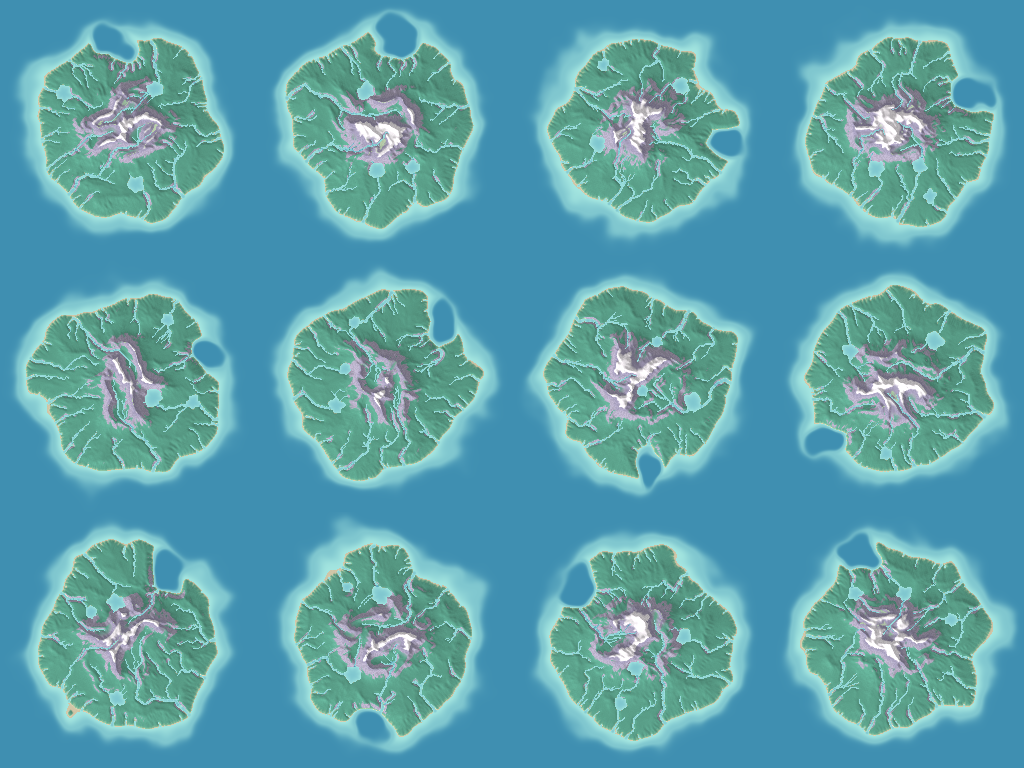
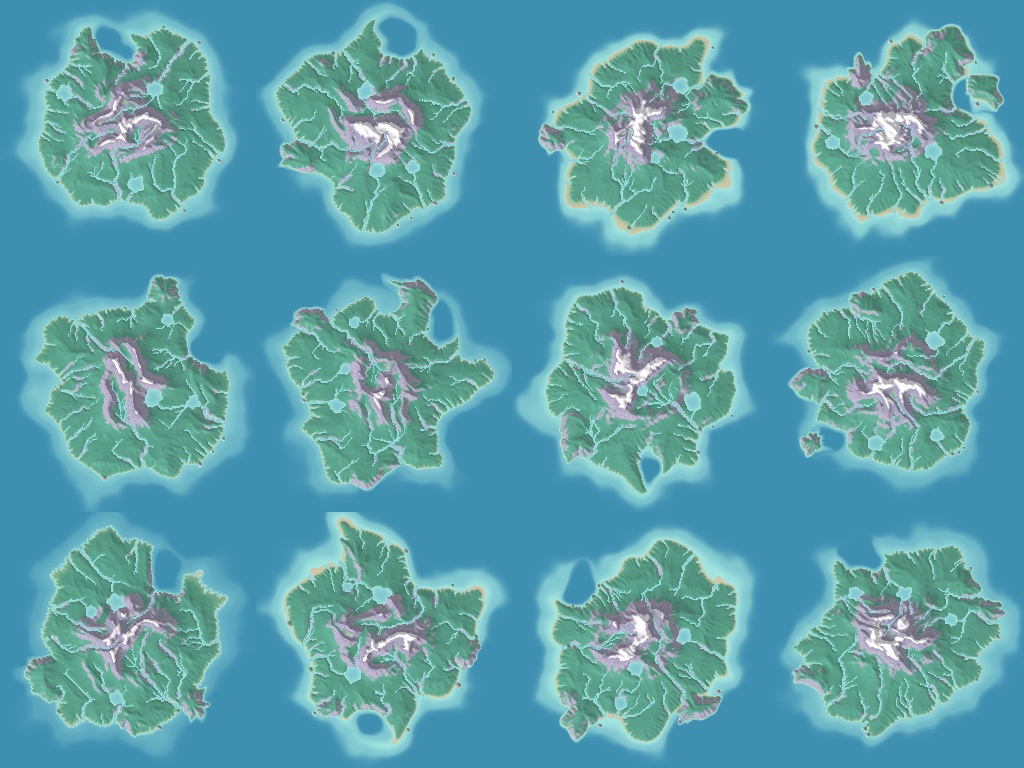
Worker + chunk cache, quantile sea level, coast smoothing, landmarks, capsule rivers, full-world low-LOD streaming

Changed region(s): [[0.0, 0.0, 1.0, 1.0], [0.0, 0.0, 0.2188, 0.3125]]

diff --git a/src/main.js b/src/main.js
@@ -1,9 +1,10 @@
 import * as THREE from 'three';
 import {OrbitControls} from 'three/addons/controls/OrbitControls.js';
-import {createIsland,SEA_LEVEL} from '../packages/island-gen/src/island.js';
+import {IslandClient} from './island-client.js';
+const SEA_LEVEL=0;
 import {PRESETS,PRESET_IDS} from '../packages/island-gen/src/presets.js';
-import {buildTerrainChunk,buildWaterChunk} from '../packages/island-gen/src/chunks.js';
-import {drawMinimap,drawMarker} from './minimap.js';
+import {drawMarker} from './minimap.js';
+const client=new IslandClient();
 
 const params=new URLSearchParams(location.search);
 if(params.has('shot')) document.body.classList.add('shot');
@@ -18,13 +19,13 @@ controls.enableDamping=true;controls.dampingFactor=.08;controls.maxPolarAngle=Ma
 
 const waterMat=new THREE.ShaderMaterial({
   transparent:true,depthWrite:false,
-  uniforms:{uTime:{value:0},uShallow:{value:new THREE.Color()},uDeep:{value:new THREE.Color()},uFoam:{value:new THREE.Color()},uFog:{value:new THREE.Color()},uFogNear:{value:1100},uFogFar:{value:5200}},
+  uniforms:{uTime:{value:0},uShallow:{value:new THREE.Color()},uDeep:{value:new THREE.Color()},uFoam:{value:new THREE.Color()},uFog:{value:new THREE.Color()},uFogNear:{value:900},uFogFar:{value:3600}},
   vertexShader:`attribute float depth;varying float vD;varying vec3 vW;varying float vDist;
     void main(){vD=depth;vec4 w=modelMatrix*vec4(position,1.);vW=w.xyz;vec4 mv=viewMatrix*w;vDist=length(mv.xyz);gl_Position=projectionMatrix*mv;}`,
   fragmentShader:`uniform float uTime,uFogNear,uFogFar;uniform vec3 uShallow,uDeep,uFoam,uFog;varying float vD;varying vec3 vW;varying float vDist;
     void main(){
       float d=vD; if(d<-0.02) discard;
-      float t=1.-exp(-max(d,0.)*.11);
+      float k=mix(.11,.5,step(.8,vW.y));float t=1.-exp(-max(d,0.)*k);
       vec3 col=mix(uShallow,uDeep,t);
       float w1=sin(uTime*.9+vW.x*.12+vW.z*.07),w2=sin(uTime*1.3-vW.z*.15+vW.x*.05);
       float band=.55+.22*w1+.14*w2;
@@ -53,7 +54,7 @@ function buildOcean(half){
   ocean.geometry.dispose();const g=new THREE.BufferGeometry();g.setAttribute('position',new THREE.Float32BufferAttribute(pos,3));g.setIndex(idx);ocean.geometry=g;
 }
 let island=null,chunkMap=new Map(),group=new THREE.Group();scene.add(group);
-let streamRadius=1500;
+let streamRadius=4200;
 
 function lodFor(d){return d<260?33:d<620?17:d<1300?9:5;}
 function chunkKey(cx,cz){return cx+','+cz;}
@@ -81,29 +82,40 @@ function wanted(){
   list.sort((a,b)=>a.d-b.d);
   return list;
 }
+const inflight=new Set();let loadGen=0;
 function updateChunks(budget=6){
   const want=wanted(),keep=new Set();
-  let built=0,pending=0;
+  let pending=0;
   for(const w of want){
     const k=chunkKey(w.cx,w.cz);keep.add(k);
     const cur=chunkMap.get(k);
     if(cur&&cur.res===w.res) continue;
-    if(built>=budget){pending++;continue;}
-    if(cur) disposeChunk(cur);
-    const t=buildTerrainChunk(island,w.cx,w.cz,w.res);
-    const tm=makeMesh(t,false);group.add(tm);
-    const wd=buildWaterChunk(island,w.cx,w.cz,w.res>=33?65:w.res>=17?49:w.res>=9?33:17);
-    let wm=null;if(wd){wm=makeMesh(wd,true);group.add(wm);}
-    chunkMap.set(k,{terrain:tm,water:wm,res:w.res});built++;
+    const fk=k+'|'+w.res;
+    if(inflight.has(fk)) continue;
+    if(inflight.size>=budget){pending++;continue;}
+    inflight.add(fk);const myGen=loadGen;
+    client.chunk(w.cx,w.cz,w.res,w.res>=33?65:w.res>=17?49:w.res>=9?33:17).then(r=>{
+      inflight.delete(fk);
+      if(!r||myGen!==loadGen) return;
+      const old=chunkMap.get(k);if(old) disposeChunk(old);
+      const tm=makeMesh(r.terrain,false);group.add(tm);
+      let wm=null;if(r.water){wm=makeMesh(r.water,true);group.add(wm);}
+      chunkMap.set(k,{terrain:tm,water:wm,res:w.res});
+    }).catch(err=>{inflight.delete(fk);console.error(err);});
   }
   for(const [k,c] of chunkMap) if(!keep.has(k)){disposeChunk(c);chunkMap.delete(k);}
-  return pending;
+  return pending+inflight.size;
 }
-function flushChunks(){let p;do{p=updateChunks(400);}while(p>0);}
-
+async function flushChunks(){
+  for(let i=0;i<4000;i++){
+    const left=updateChunks(24);
+    if(left===0) return;
+    await new Promise(r=>setTimeout(r,16));
+  }
+}
 function applyPalette(p){
   const c=new THREE.Color(p.sky);scene.background=c;
-  scene.fog=new THREE.Fog(new THREE.Color(p.fog),1100,5200);scene.background=new THREE.Color(p.fog);oceanMat.color.set(p.deep).lerp(new THREE.Color('#8fb9b4'),.22).multiplyScalar(.82);floorMat.color.copy(oceanMat.color).multiplyScalar(.6);
+  scene.fog=new THREE.Fog(new THREE.Color(p.fog),900,3600);scene.background=new THREE.Color(p.fog);oceanMat.color.set(p.deep).lerp(new THREE.Color('#8fb9b4'),.22).multiplyScalar(.82);floorMat.color.copy(oceanMat.color);
   waterMat.uniforms.uShallow.value.set(p.shallow);waterMat.uniforms.uDeep.value.set(p.deep);waterMat.uniforms.uFoam.value.set(p.foam);waterMat.uniforms.uFog.value.set(p.fog);
 }
 function clampCamera(){
@@ -147,22 +159,22 @@ addEventListener('resize',resize);resize();
 
 async function load(presetId,seed,view='oblique',viewOpts){
   $('busy').style.display='grid';
-  await new Promise(r=>setTimeout(r,20));
-  const t0=performance.now();
+  loadGen++;inflight.clear();
   for(const c of chunkMap.values())disposeChunk(c);chunkMap.clear();
-  island=createIsland(seed,presetId);
+  const t0=performance.now();
+  island=await client.load(seed,presetId);
   const tGen=performance.now()-t0;
   applyPalette(island.preset.palette);buildOcean(island.half);
   setView(view,viewOpts);
-  const t1=performance.now();flushChunks();
+  const t1=performance.now();await flushChunks();
   const tChunks=performance.now()-t1;
-  drawMinimap($('mapc'),island);updateMarker();
+  client.minimap(208,208).then(px=>{const c=$('mapc').getContext('2d'),img=c.createImageData(208,208);img.data.set(px);c.putImageData(img,0,0);updateMarker();});
   const s=island.stats;
   $('blurb').textContent=island.preset.blurb;
-  $('info').textContent=`land ${(s.landRatio*100).toFixed(0)}% | peak ${s.maxH.toFixed(0)}m | ${s.rivers} rivers ${s.lakes} lakes | gen ${tGen.toFixed(0)}ms, mesh ${tChunks.toFixed(0)}ms`;
+  $('info').textContent=`land ${(s.landRatio*100).toFixed(0)}% | peak ${s.maxH.toFixed(0)}m | ${s.rivers} river mouths ${s.lakes} lakes | gen ${tGen.toFixed(0)}ms (worker), first mesh ${tChunks.toFixed(0)}ms`;
   $('busy').style.display='none';
   window.__cozy.ready=true;
-  return {stats:s,tGen,tChunks,checksum:island.checksum()};
+  return {stats:s,tGen,tChunks,checksum:island.checksum};
 }
 function updateMarker(){if(island)drawMarker($('mapo'),island,controls.target,camera.position);}
 function randomSeed(){const w=['clover','plum','mint','dune','fern','tide','honey','moss','pearl','lilac','ember','drift','sorbet','wren','cove'];return w[Math.floor(Math.random()*w.length)]+'-'+Math.floor(Math.random()*900+100);}
@@ -182,7 +194,7 @@ $('mapo').onclick=e=>{
 };
 
 window.__cozy={ready:false,load,setView,flushChunks,
-  setCamera(p,t){camera.position.set(...p);controls.target.set(...t);camera.lookAt(...t);controls.update();flushChunks();},
+  async setCamera(p,t){camera.position.set(...p);controls.target.set(...t);camera.lookAt(...t);controls.update();await flushChunks();},
   setSize(w,h){renderer.setSize(w,h,false);camera.aspect=w/h;camera.updateProjectionMatrix();},
   render(time=0){waterMat.uniforms.uTime.value=time;controls.update();clampCamera();renderer.render(scene,camera);},
   info(){return {chunks:chunkMap.size,calls:renderer.info.render.calls,tris:renderer.info.render.triangles};},
@@ -196,7 +208,7 @@ function loop(now){
   if(autoOrbit){const o=camera.position.clone().sub(controls.target);o.applyAxisAngle(new THREE.Vector3(0,1,0),dt*.12);camera.position.copy(controls.target).add(o);}
   waterMat.uniforms.uTime.value=now/1000;
   controls.update();clampCamera();
-  if(++frames%12===0) updateChunks(3);
+  if(++frames%4===0) updateChunks(8);
   if(frames%20===0) updateMarker();
   renderer.render(scene,camera);
 }

diff --git a/packages/island-gen/src/island.js b/packages/island-gen/src/island.js
@@ -48,6 +48,10 @@ export function createIsland(seedValue='petalwood',presetId='meadowCove',opts={}
   const bays=(preset.bays||[]).map(rot);
   const plateaus=(preset.plateaus||[]).map(o=>rot(o));
   const knolls=[];
+  if(preset.hero){
+    const hr=rng(key+':hero'),a=hr()*Math.PI*2;
+    knolls.push({x:lobes[0].x+Math.cos(a)*lobes[0].r*preset.hero.dist,z:lobes[0].z+Math.sin(a)*lobes[0].r*preset.hero.dist,r:preset.hero.r,h:preset.hero.h});
+  }
   if(preset.knolls){
     const kr=rng(key+':knolls'),K=preset.knolls;let t=0;
     while(knolls.length<K.count&&t++<300){
@@ -59,7 +63,11 @@ export function createIsland(seedValue='petalwood',presetId='meadowCove',opts={}
   const detailFreq=.03;
   const maskAt=(wx,wz)=>{
     let m=-1;
-    for(const l of lobes) m=Math.max(m,1-Math.hypot(wx-l.x,wz-l.z)/l.r);
+    for(const l of lobes){
+      const dxl=wx-l.x,dzl=wz-l.z,ang=Math.atan2(dzl,dxl);
+      const irr=1+(preset.shapeAmp??.22)*nz.noise(Math.cos(ang)*1.7+l.x*.003+5,Math.sin(ang)*1.7+l.z*.003+5);
+      m=Math.max(m,1-Math.hypot(dxl,dzl)/(l.r*irr));
+    }
     for(const b of bays) m-=b.depth*smooth(b.r,b.r*.15,Math.hypot(wx-b.x,wz-b.z));
     return m;
   };
@@ -99,6 +107,12 @@ export function createIsland(seedValue='petalwood',presetId='meadowCove',opts={}
   const droplets=opts.droplets??E.droplets;
   if(droplets>0) hydraulic(h,N,droplets,er);
   if(E.thermal>0) thermal(h,N,E.thermal,E.talus*cell*.5);
+  if(preset.landRatio){
+    // sea level by height quantile: land ratio is a preset knob (shift limited so shapes stay sane)
+    const sorted=Float32Array.from(h).sort(),q=sorted[Math.floor((1-preset.landRatio)*(sorted.length-1))];
+    const shift=clamp(q,-8,8);
+    for(let k=0;k<h.length;k++)h[k]-=shift;
+  }
 
   // ---------------- 3. rivers + lakes ----------------
   const water=new Float32Array(N*N); // water surface level (>0 only where a river/lake holds water above sea)
@@ -154,16 +168,37 @@ export function createIsland(seedValue='petalwood',presetId='meadowCove',opts={}
       const wc=clamp(R.width/cell*(.55+.22*Math.sqrt(a)),1.1,R.width/cell*3);
       const ci=k%N,cj=(k/N)|0;
       const pi=par>=0?par%N:ci,pj=par>=0?(par/N)|0:cj,pb=par>=0&&bed[par]<1e8?bed[par]:b;
-      for(const t of [0,.34,.67]){
-        const cx=lerp(ci,pi,t),cy=lerp(cj,pj,t),bb=lerp(b,pb,t),rad=Math.ceil(wc+1.5);
-        for(let y=Math.floor(cy)-rad;y<=Math.ceil(cy)+rad;y++)for(let x=Math.floor(cx)-rad;x<=Math.ceil(cx)+rad;x++){
-          if(x<0||y<0||x>=N||y>=N) continue;
-          const d=Math.hypot(x-cx,y-cy),w=smooth(rad,wc*.3,d);if(w<=0) continue;
-          const kk=y*N+x,target=bb-.7+(1-w)*R.depth*1.4;
-          if(target<h[kk]) h[kk]=lerp(h[kk],target,Math.min(1,w*1.1));
-          if(d<=Math.max(1.3,wc*.85)&&bb>.35) water[kk]=Math.max(water[kk],bb+.5);
-        }
+      // capsule carve: distance to the segment k->parent keeps the channel continuous (no beads)
+      const sx=pi-ci,sy=pj-cj,sl=sx*sx+sy*sy||1,rad=Math.ceil(wc+1.5);
+      const x0=Math.max(0,Math.min(ci,pi)-rad),x1=Math.min(N-1,Math.max(ci,pi)+rad),y0=Math.max(0,Math.min(cj,pj)-rad),y1=Math.min(N-1,Math.max(cj,pj)+rad);
+      for(let y=y0;y<=y1;y++)for(let x=x0;x<=x1;x++){
+        const t=clamp(((x-ci)*sx+(y-cj)*sy)/sl,0,1),d=Math.hypot(x-(ci+sx*t),y-(cj+sy*t)),w=smooth(rad,wc*.3,d);
+        if(w<=0) continue;
+        const bb=lerp(b,pb,t),kk=y*N+x,target=bb-.7+(1-w)*R.depth*1.4;
+        if(target<h[kk]) h[kk]=lerp(h[kk],target,Math.min(1,w*1.1));
+        if(d<=Math.max(1.3,wc*.85)&&bb>.35) water[kk]=Math.max(water[kk],bb+.5);
       }
+    }
+  }
+
+  // de-bead rivers: dilate the water ribbon one cell and blur the carved bed so the channel is continuous
+  {
+    for(let rep=0;rep<2;rep++){
+    const w2=Float32Array.from(water);
+    for(let j=1;j<N-1;j++)for(let i=1;i<N-1;i++){
+      const k=j*N+i;if(water[k]>0) continue;
+      let m=0;for(const o of [-1,1,-N,N]) m=Math.max(m,water[k+o]);
+      if(m>0&&h[k]<m-.05) w2[k]=m;
+    }
+    water.set(w2);
+    }
+    for(let pass=0;pass<2;pass++){
+      const t=Float32Array.from(h);
+      for(let j=1;j<N-1;j++)for(let i=1;i<N-1;i++){
+        const k=j*N+i;if(!(water[k]>0)) continue;
+        const a=(h[k-1]+h[k+1]+h[k-N]+h[k+N])*.25;t[k]=Math.min(lerp(h[k],a,.5),water[k]-.35);
+      }
+      h.set(t);
     }
   }
   // plateaus (flat buildable shelves) and river-bank smoothing
@@ -194,6 +229,41 @@ export function createIsland(seedValue='petalwood',presetId='meadowCove',opts={}
     if(v>0&&v<bt){const t=v/bt;h[k]=v*(.38+.62*t*t);}
   }
   smoothNear(h,N,-3,bt+1,2);
+
+  // coast majority smoothing: removes speckle islets and fuzzy single-cell noise at the waterline
+  for(let pass=0;pass<2;pass++){
+    const t=Float32Array.from(h);
+    for(let j=1;j<N-1;j++)for(let i=1;i<N-1;i++){
+      const k=j*N+i,v=h[k];if(v>1.6||v<-1.6) continue;
+      let sea=0;
+      for(const o of [-N-1,-N,-N+1,-1,1,N-1,N,N+1]) if(h[k+o]<=0) sea++;
+      if(v>0&&sea>=6) t[k]=-.25;
+      else if(v<=0&&sea<=2&&water[k]<=0) t[k]=.25;
+    }
+    h.set(t);
+  }
+  // sea stacks: small rock spires standing in the shallows just off the coast
+  const stacks=[];
+  if(preset.stacks){
+    const sr=rng(key+':stacks'),S=preset.stacks;let tries=0;
+    while(stacks.length<S.count&&tries++<3000){
+      const x=(sr()*2-1)*half*.8,z=(sr()*2-1)*half*.8,fi=Math.round((x+half)/cell),fj=Math.round((z+half)/cell),v=h[fj*N+fi];
+      if(v>-1.2||v<-5) continue;
+      let coast=false;
+      for(let a=0;a<8&&!coast;a++){const px=Math.round(fi+Math.cos(a*.785)*14),pz=Math.round(fj+Math.sin(a*.785)*14);if(px>0&&pz>0&&px<N&&pz<N&&h[pz*N+px]>0.3) coast=true;}
+      if(!coast||stacks.some(o=>Math.hypot(o.x-x,o.z-z)<60)) continue;
+      stacks.push({x,z,r:S.r[0]+sr()*(S.r[1]-S.r[0]),h:S.h[0]+sr()*(S.h[1]-S.h[0])});
+    }
+    for(const st of stacks){
+      const rad=Math.ceil(st.r*2.2/cell);
+      const ci=Math.round((st.x+half)/cell),cj=Math.round((st.z+half)/cell);
+      for(let y=cj-rad;y<=cj+rad;y++)for(let x=ci-rad;x<=ci+rad;x++){
+        if(x<0||y<0||x>=N||y>=N) continue;
+        const d=Math.hypot(-half+x*cell-st.x,-half+y*cell-st.z)/st.r;
+        if(d<2.2) h[y*N+x]+=st.h*Math.exp(-d*d*1.6);
+      }
+    }
+  }
 
   // ---------------- 5. terraces on steep ground ----------------
   const T=preset.terrace;
@@ -254,7 +324,7 @@ export function createIsland(seedValue='petalwood',presetId='meadowCove',opts={}
   // stats
   let landCells=0,minH=1e9,maxH=-1e9;
   for(let k=0;k<h.length;k++){if(h[k]>SEA_LEVEL)landCells++;if(h[k]<minH)minH=h[k];if(h[k]>maxH)maxH=h[k];}
-  const stats={landRatio:landCells/h.length,minH,maxH,lakes:lakes.length,rivers:riverMouths,riverCells,lobes:lobes.length};
+  const stats={landRatio:landCells/h.length,minH,maxH,lakes:lakes.length,rivers:riverMouths,riverCells,stacks:stacks.length,lobes:lobes.length};
   // shoreline spot for cameras: march from origin outward along angle until sea
   const shoreAt=(angle)=>{
     for(let d=0;d<half;d+=cell*.5){
@@ -397,7 +467,7 @@ function streamPower(h,N,cell,P){
       const t=Float32Array.from(h);
       for(let j=1;j<N-1;j++)for(let i=1;i<N-1;i++){
         const k=j*N+i;if(h[k]<=SEA_LEVEL+.5) continue;
-        const a=(h[k-1]+h[k+1]+h[k-N]+h[k+N])*.25;t[k]=lerp(h[k],a,P.diff);
+        const a=(h[k-1]+h[k+1]+h[k-N]+h[k+N])*.25;t[k]=lerp(h[k],a,P.diff*(1+2.2*(1-clamp(h[k]/12,0,1))));
       }
       h.set(t);
     }

diff --git a/src/island-client.js b/src/island-client.js
@@ -1,0 +1,36 @@
+// Main-thread proxy for the generator worker. Exposes the light queries the viewer needs
+// (sample/slope/waterAt/shoreAt over the transferred field) and async chunk/minimap requests.
+// Built chunk data is kept in an LRU cache so revisiting an area costs nothing.
+const SEA_LEVEL=0;
+export class IslandClient{
+  constructor(){
+    this.worker=new Worker(new URL('./gen-worker.js',import.meta.url),{type:'module'});
+    this.pending=new Map();this.nextId=1;this.cache=new Map();this.cacheMax=1800;this.gen=0;
+    this.worker.onmessage=e=>{const m=e.data,p=this.pending.get(m.id);if(!p) return;this.pending.delete(m.id);m.type==='error'?p.reject(new Error(m.message)):p.resolve(m);};
+    this.worker.onerror=e=>{for(const p of this.pending.values())p.reject(new Error(e.message));this.pending.clear();};
+  }
+  _req(msg,transfer){return new Promise((resolve,reject)=>{const id=this.nextId++;this.pending.set(id,{resolve,reject});this.worker.postMessage({...msg,id},transfer||[]);});}
+  async load(seed,preset,opts){
+    this.gen++;this.cache.clear();
+    const m=await this._req({type:'load',seed,preset,opts});
+    const meta=m.meta,N=meta.grid,half=meta.half,cell=meta.cell,h=m.h,w=m.water;
+    Object.assign(this,meta);this.ms=m.ms;this.h=h;this.water=w;
+    const bil=(a,x,z)=>{const fi=Math.min(N-1.0001,Math.max(0,(x+half)/cell)),fj=Math.min(N-1.0001,Math.max(0,(z+half)/cell));const i=Math.floor(fi),j=Math.floor(fj),tx=fi-i,tz=fj-j,k=j*N+i;return (a[k]*(1-tx)+a[k+1]*tx)*(1-tz)+(a[k+N]*(1-tx)+a[k+N+1]*tx)*tz;};
+    this.sample=(x,z)=>bil(h,x,z);
+    this.waterAt=(x,z)=>Math.max(0,bil(w,x,z));
+    this.slope=(x,z,e=cell)=>Math.hypot((this.sample(x+e,z)-this.sample(x-e,z))/(2*e),(this.sample(x,z+e)-this.sample(x,z-e))/(2*e));
+    this.shoreAt=a=>{for(let d=0;d<half;d+=cell*.5){const x=Math.cos(a)*d,z=Math.sin(a)*d;if(this.sample(x,z)<SEA_LEVEL) return {x,z,d};}return {x:0,z:0,d:0};};
+    return this;
+  }
+  async chunk(cx,cz,res,wres){
+    const key=`${this.gen}|${cx},${cz},${res}`,hit=this.cache.get(key);
+    if(hit){this.cache.delete(key);this.cache.set(key,hit);return hit;}
+    const gen=this.gen,m=await this._req({type:'chunk',cx,cz,res,wres});
+    if(gen!==this.gen) return null;
+    const out={terrain:m.terrain,water:m.water};
+    this.cache.set(key,out);
+    if(this.cache.size>this.cacheMax) this.cache.delete(this.cache.keys().next().value);
+    return out;
+  }
+  async minimap(w,h){return (await this._req({type:'minimap',w,h})).px;}
+}

diff --git a/src/gen-worker.js b/src/gen-worker.js
@@ -1,0 +1,26 @@
+// Module worker: generates the island and builds chunk/minimap data off the main thread.
+import {createIsland} from '../packages/island-gen/src/island.js';
+import {buildTerrainChunk,buildWaterChunk} from '../packages/island-gen/src/chunks.js';
+import {renderMinimapPixels} from './minimap.js';
+let island=null;
+self.onmessage=e=>{
+  const m=e.data;
+  try{
+    if(m.type==='load'){
+      const t=performance.now();
+      island=createIsland(m.seed,m.preset,m.opts||{});
+      const h=island.h.slice(),w=island.water.slice();
+      self.postMessage({type:'loaded',id:m.id,ms:performance.now()-t,
+        meta:{seed:island.seed,presetId:island.presetId,preset:island.preset,size:island.size,half:island.half,grid:island.grid,cell:island.cell,stats:island.stats,chunkSize:island.chunkSize,checksum:island.checksum()},
+        h,water:w},[h.buffer,w.buffer]);
+    }else if(m.type==='chunk'){
+      const t=buildTerrainChunk(island,m.cx,m.cz,m.res),wd=buildWaterChunk(island,m.cx,m.cz,m.wres);
+      const tr=[t.positions.buffer,t.colors.buffer,t.indices.buffer];
+      if(wd) tr.push(wd.positions.buffer,wd.depth.buffer,wd.indices.buffer);
+      self.postMessage({type:'chunk',id:m.id,terrain:t,water:wd},tr);
+    }else if(m.type==='minimap'){
+      const px=renderMinimapPixels(island,m.w,m.h);
+      self.postMessage({type:'minimap',id:m.id,px},[px.buffer]);
+    }
+  }catch(err){self.postMessage({type:'error',id:m.id,message:String(err&&err.stack||err)});}
+};
